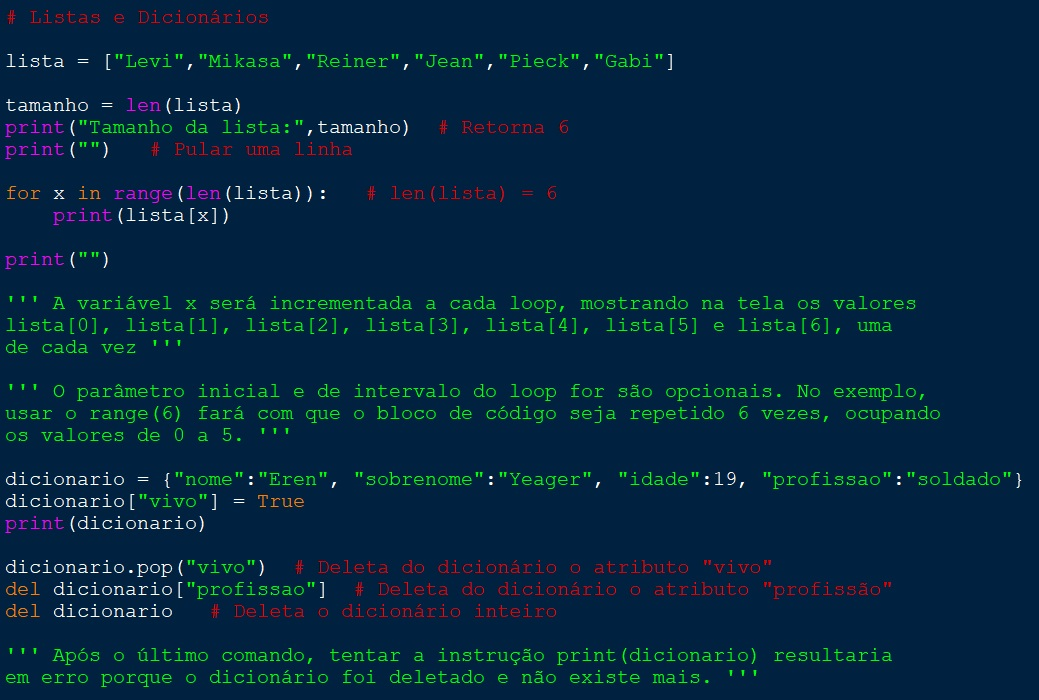
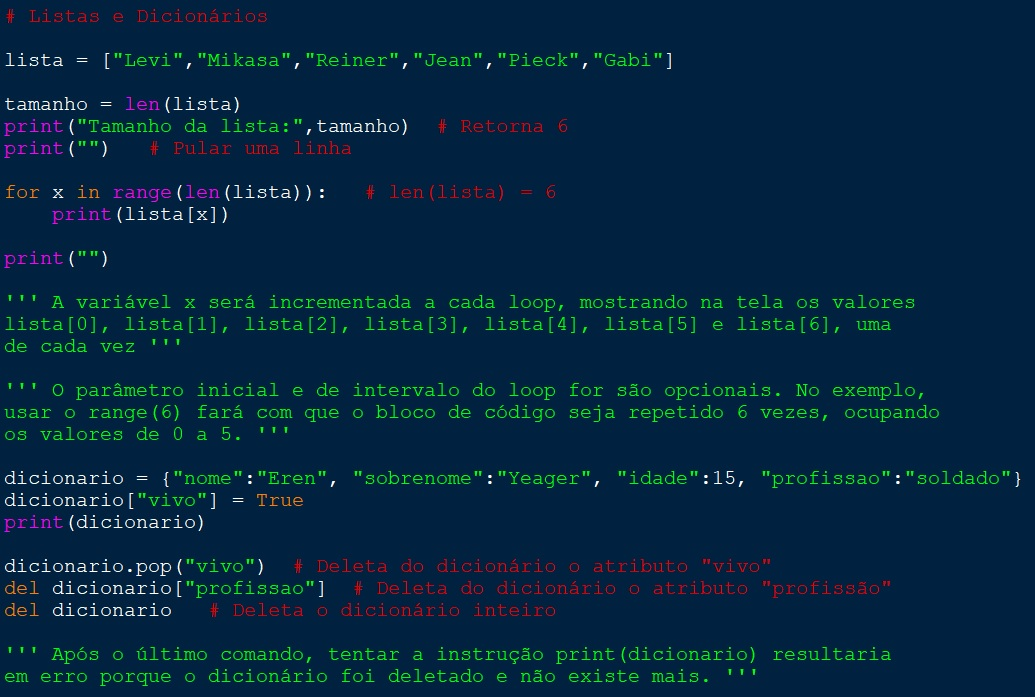
versão teste

diff --git a/code/tutorial.html b/code/tutorial.html
@@ -33,7 +33,7 @@
 				<a href="#var"><li>Variáveis</li></a>
 				<a href="#cond"><li>Condições (IF/ELSE)</li></a>
 				<a href="#loop"><li>Loops (FOR/WHILE)</li></a>
-				<a href="#list"><li>Listas e Tuplas</li></a>
+				<a href="#list"><li>Listas e Dicionários</li></a>
 				<a href="#func"><li>Funções</li></a>
 				<a href="#class"><li>Classes</li></a>
 			</dl>

diff --git a/code/resumo.py b/code/resumo.py
@@ -139,7 +139,7 @@ de cada vez '''
 usar o range(6) fará com que o bloco de código seja repetido 6 vezes, ocupando
 os valores de 0 a 5. '''
 
-dicionario = {"nome":"Eren", "sobrenome":"Yeager", "idade":19, "profissao":"soldado"}
+dicionario = {"nome":"Eren", "sobrenome":"Yeager", "idade":15, "profissao":"soldado"}
 dicionario["vivo"] = True
 print(dicionario)
 
